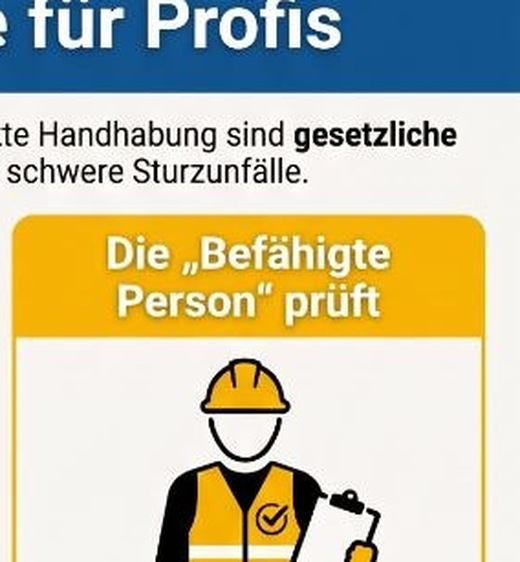
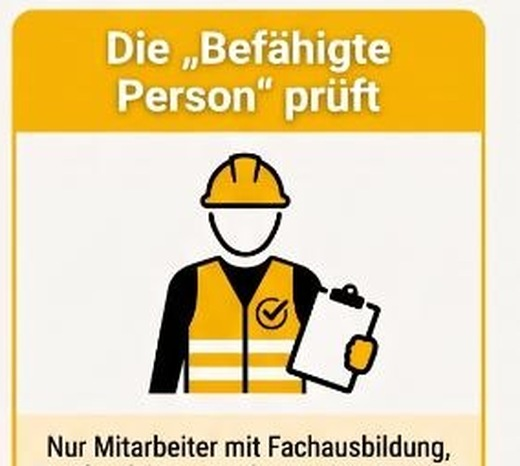
v160: Kacheln sauber ohne Abschneidung, doppelter Header entfernt, clean-Infografik

diff --git a/app.js b/app.js
@@ -13486,9 +13486,9 @@ const BP_KAPITEL = [
       <div style="font-size:.82rem;opacity:.9;margin-top:4px">Leitern und Tritte sind Arbeitsmittel im Sinne der BetrSichV. Arbeitgeber sind verpflichtet, diese sicher bereitzustellen — das schließt regelmäßige Prüfungen ein.</div>
     </div>
 
-    <!-- Checkliste Infografik -->
+    <!-- Checkliste Infografik (bereinigt, kein Gemini-UI) -->
     <div style="text-align:center;margin:0 0 14px">
-      <img src="img/checkliste-leitern-tritte-infografik.jpg"
+      <img src="img/checkliste-infografik-clean.jpg"
            style="max-width:100%;border-radius:10px;border:1.5px solid #d1d5db"
            alt="Sicher auf Leitern & Tritten: Checkliste für Profis">
       <div style="font-size:.68rem;color:#9ca3af;margin-top:4px">Überblick: Die 5 wichtigsten Pflichten · Quelle: DGUV Information 208-016 / BetrSichV</div>
@@ -13891,18 +13891,12 @@ const BP_KAPITEL = [
     titel: 'Sichere Verwendung — Was ist zu beachten?',
     icon: '📖',
     inhalt: `
-    <div style="background:linear-gradient(135deg,#1a3a5c,#1e40af);border-radius:10px;padding:14px 16px;margin-bottom:14px;color:#fff">
-      <div style="font-size:2rem;margin-bottom:6px">📖</div>
-      <div style="font-weight:700;font-size:1rem">DGUV Information 208-016 — Kapitel 5</div>
-      <div style="font-size:.82rem;opacity:.9;margin-top:4px">„Was ist bei der Verwendung von Leitern und Tritten zu beachten?" — Die wichtigsten Regeln, illustriert mit offiziellen DGUV-Piktogrammen.</div>
-    </div>
-
     <!-- DGUV Bildtafel Gesamt -->
     <div style="text-align:center;margin:0 0 16px">
       <img src="img/dguv-208-016-piktogramme.jpg"
            style="max-width:100%;border-radius:10px;border:1.5px solid #d1d5db"
            alt="DGUV 208-016 Piktogramme">
-      <div style="font-size:.68rem;color:#9ca3af;margin-top:4px">Abb. — Übersicht: Richtig ✓ und Falsch ✗ bei Leitern und Tritten · Quelle: DGUV Information 208-016</div>
+      <div style="font-size:.68rem;color:#9ca3af;margin-top:4px">Abb. — Richtig ✓ und Falsch ✗ bei Leitern & Tritten · Quelle: DGUV Information 208-016</div>
     </div>
 
     <!-- 5.1 Allgemeines -->
@@ -13994,9 +13988,9 @@ const BP_KAPITEL = [
     </div>
 
     <!-- Kachel: Sicherer Stand -->
-    <div style="text-align:center;margin:8px 0 14px">
+    <div style="text-align:center;margin:8px 0 14px;overflow:hidden">
       <img src="img/kachel-sicherer-stand.jpg"
-           style="max-width:100%;border-radius:10px;border:1.5px solid #f97316"
+           style="width:100%;max-width:100%;border-radius:10px;border:1.5px solid #f97316;display:block"
            alt="Sicherer Stand: Winkel und Kontakt">
     </div>
 

diff --git a/app.src.js b/app.src.js
@@ -13486,9 +13486,9 @@ const BP_KAPITEL = [
       <div style="font-size:.82rem;opacity:.9;margin-top:4px">Leitern und Tritte sind Arbeitsmittel im Sinne der BetrSichV. Arbeitgeber sind verpflichtet, diese sicher bereitzustellen — das schließt regelmäßige Prüfungen ein.</div>
     </div>
 
-    <!-- Checkliste Infografik -->
+    <!-- Checkliste Infografik (bereinigt, kein Gemini-UI) -->
     <div style="text-align:center;margin:0 0 14px">
-      <img src="img/checkliste-leitern-tritte-infografik.jpg"
+      <img src="img/checkliste-infografik-clean.jpg"
            style="max-width:100%;border-radius:10px;border:1.5px solid #d1d5db"
            alt="Sicher auf Leitern & Tritten: Checkliste für Profis">
       <div style="font-size:.68rem;color:#9ca3af;margin-top:4px">Überblick: Die 5 wichtigsten Pflichten · Quelle: DGUV Information 208-016 / BetrSichV</div>
@@ -13891,18 +13891,12 @@ const BP_KAPITEL = [
     titel: 'Sichere Verwendung — Was ist zu beachten?',
     icon: '📖',
     inhalt: `
-    <div style="background:linear-gradient(135deg,#1a3a5c,#1e40af);border-radius:10px;padding:14px 16px;margin-bottom:14px;color:#fff">
-      <div style="font-size:2rem;margin-bottom:6px">📖</div>
-      <div style="font-weight:700;font-size:1rem">DGUV Information 208-016 — Kapitel 5</div>
-      <div style="font-size:.82rem;opacity:.9;margin-top:4px">„Was ist bei der Verwendung von Leitern und Tritten zu beachten?" — Die wichtigsten Regeln, illustriert mit offiziellen DGUV-Piktogrammen.</div>
-    </div>
-
     <!-- DGUV Bildtafel Gesamt -->
     <div style="text-align:center;margin:0 0 16px">
       <img src="img/dguv-208-016-piktogramme.jpg"
            style="max-width:100%;border-radius:10px;border:1.5px solid #d1d5db"
            alt="DGUV 208-016 Piktogramme">
-      <div style="font-size:.68rem;color:#9ca3af;margin-top:4px">Abb. — Übersicht: Richtig ✓ und Falsch ✗ bei Leitern und Tritten · Quelle: DGUV Information 208-016</div>
+      <div style="font-size:.68rem;color:#9ca3af;margin-top:4px">Abb. — Richtig ✓ und Falsch ✗ bei Leitern & Tritten · Quelle: DGUV Information 208-016</div>
     </div>
 
     <!-- 5.1 Allgemeines -->
@@ -13994,9 +13988,9 @@ const BP_KAPITEL = [
     </div>
 
     <!-- Kachel: Sicherer Stand -->
-    <div style="text-align:center;margin:8px 0 14px">
+    <div style="text-align:center;margin:8px 0 14px;overflow:hidden">
       <img src="img/kachel-sicherer-stand.jpg"
-           style="max-width:100%;border-radius:10px;border:1.5px solid #f97316"
+           style="width:100%;max-width:100%;border-radius:10px;border:1.5px solid #f97316;display:block"
            alt="Sicherer Stand: Winkel und Kontakt">
     </div>
 

diff --git a/sw.js b/sw.js
@@ -3,7 +3,7 @@
 //  v3.2 – Vereinfacht: Network-First für alles außer Supabase
 // ============================================================
 =======
-const CACHE_NAME = 'schulung-v159';
+const CACHE_NAME = 'schulung-v160';
 
 
 // ── INSTALL: Sofort aktivieren ───────────────────────────────
